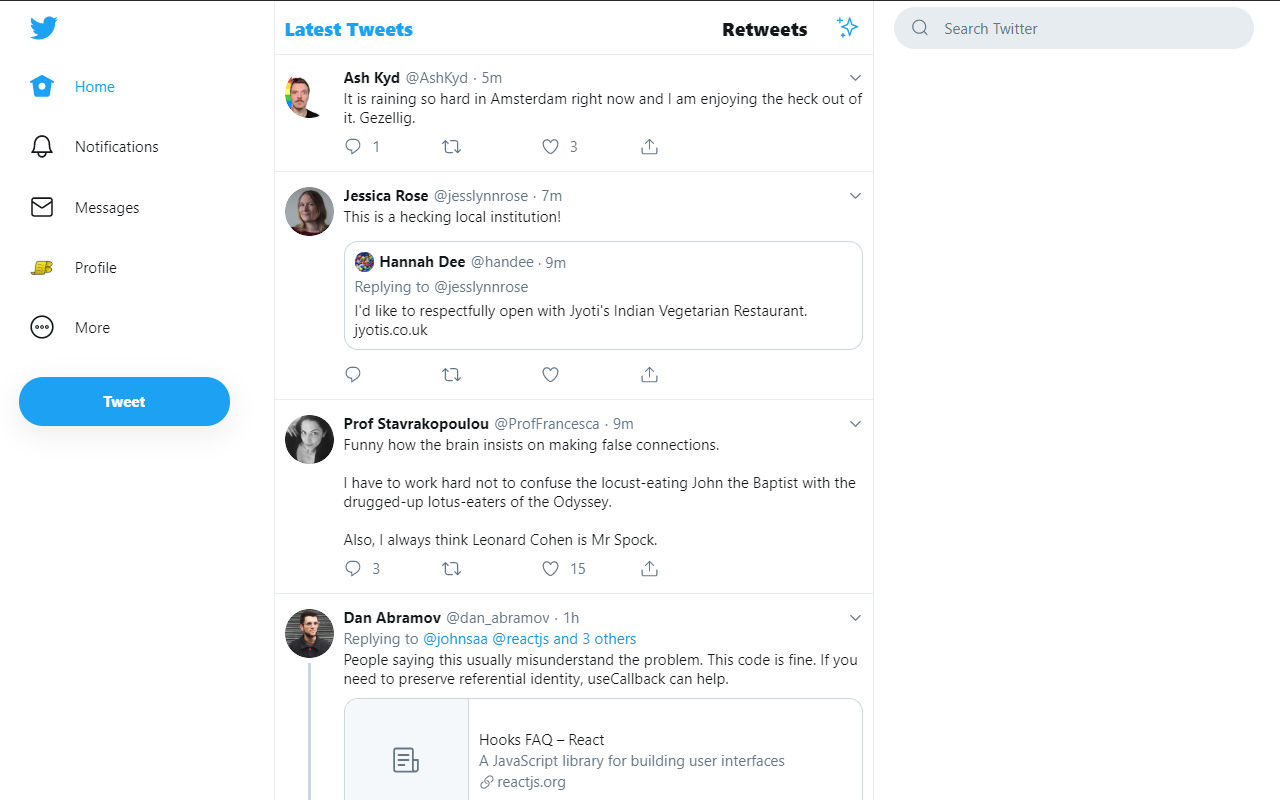
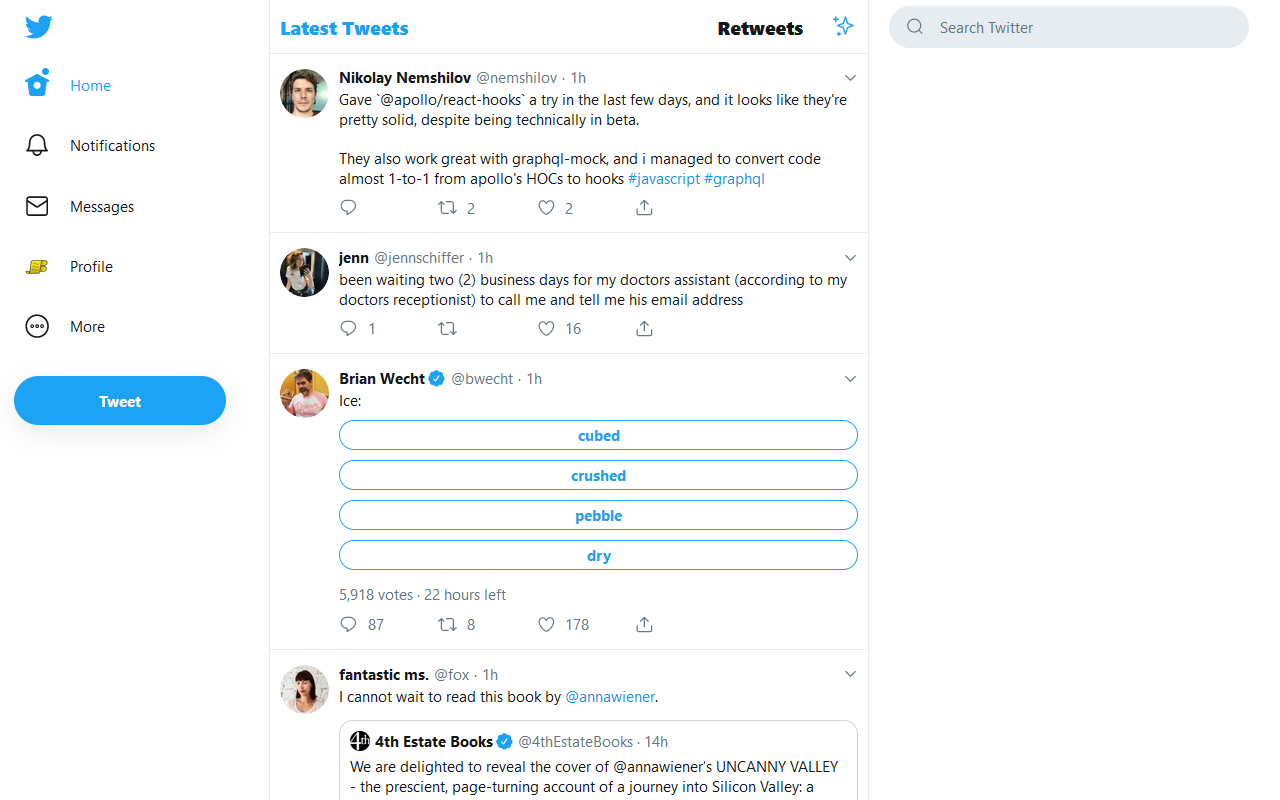
Update short descripton and add Retweets timeline screenshot

diff --git a/tweak-new-twitter.user.js b/tweak-new-twitter.user.js
@@ -1,6 +1,6 @@
 // ==UserScript==
 // @name        Tweak New Twitter
-// @description Always use Latest Tweets, manage retweets, and other UI tweaks for New Twitter
+// @description Reduce "engagement" and tone down some of New Twitter's UI
 // @namespace   https://github.com/insin/tweak-new-twitter/
 // @match       https://twitter.com/*
 // @version     6

diff --git a/README.md b/README.md
@@ -2,7 +2,7 @@
 
 ![](icons/icon128.png)
 
-**Always use Latest Tweets, manage retweets, and other UI tweaks for New Twitter**
+**Reduce "engagement" and tone down some of New Twitter's UI**
 
 * [Install Chrome Extension](https://chrome.google.com/webstore/detail/kpmjjdhbcfebfjgdnpjagcndoelnidfj)
 * [Install Firefox Add-on](https://addons.mozilla.org/en-US/firefox/addon/tweak-new-twitter/)
@@ -21,6 +21,10 @@
 Timeline view with all tweaks enabled (default):
 
 ![Screenshot of a New Twitter timeline without retweets, sidebar content, nav links which can be hidden and a less distracting nav style](screenshots/timeline.png)
+
+The new Retweets timeline, containing retweets only:
+
+![Screenshot of the Retweets timeline Tweak New Twitter adds to New Twitter, containing nothing but retweets](screenshots/retweets.png)
 
 Chrome extension options dialog:
 
